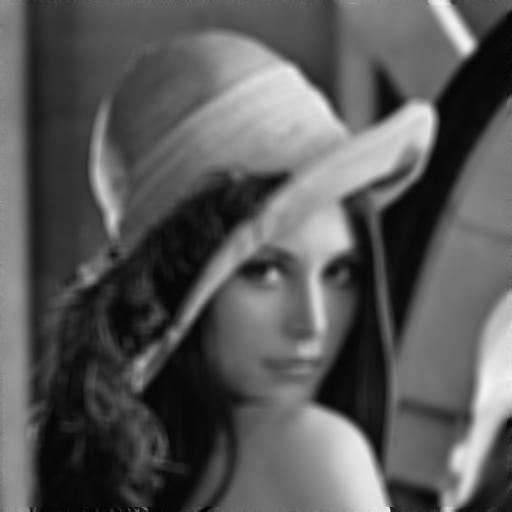
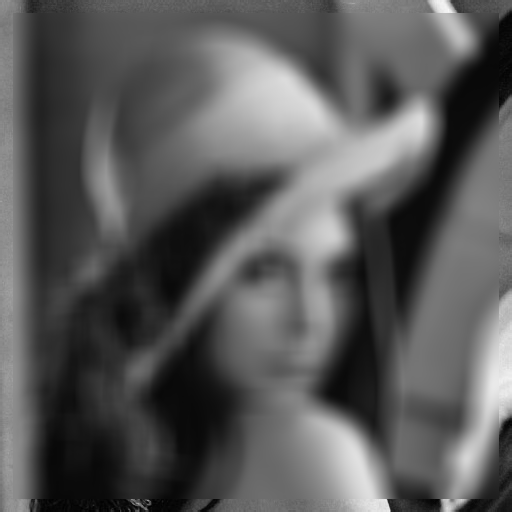
Showing Images on Screens

diff --git a/LowPass.cpp b/LowPass.cpp
@@ -9,9 +9,9 @@ using namespace cv;
 using namespace std;
 using namespace chrono;
 
-// #define RUN_SEQUENTIAL
+#define RUN_SEQUENTIAL
 // #define RUN_OPENMP
-#define RUN_MPI
+// #define RUN_MPI
 
 #ifdef RUN_SEQUENTIAL
 
@@ -27,7 +27,6 @@ int main() {
     }
 
     Mat output = image.clone();
-
     int kSize;
 
     do {
@@ -43,11 +42,12 @@ int main() {
     auto start = high_resolution_clock::now();
 
     //Looping on the image
-    for (int i = pad; i < image.rows - pad; ++i) {
-        for (int j = pad; j < image.cols - pad; ++j) {
+    for (int i = pad; i < image.rows - pad; i++) {
+        for (int j = pad; j < image.cols - pad; j++) {
             int sum = 0;
-            for (int ki = -pad; ki <= pad; ++ki) {
-                for (int kj = -pad; kj <= pad; ++kj) {
+            // Looping on the filter to always make it centered
+            for (int ki = -pad; ki <= pad; ki++) {
+                for (int kj = -pad; kj <= pad; kj++) {
                     sum += image.at<uchar>(i + ki, j + kj);
                 }
             }
@@ -64,6 +64,12 @@ int main() {
     cout << "\n" << "Blurring completed successfully!Output saved as 'output_blurred.png'" << endl;
 
     cout << "\nExecution Time: " << duration.count() << " seconds" << endl;
+
+    // Show images
+    imshow("Original Image", image);
+    imshow("Blurred Image", output);
+    waitKey(0);
+    destroyAllWindows();
 
     return 0;
 }
@@ -101,11 +107,13 @@ int main() {
 
 #pragma omp parallel for
 
-    for (int i = pad; i < image.rows - pad; ++i) {
-        for (int j = pad; j < image.cols - pad; ++j) {
+    //Looping on the image
+    for (int i = pad; i < image.rows - pad; i++) {
+        for (int j = pad; j < image.cols - pad; j++) {
             int sum = 0;
-            for (int ki = -pad; ki <= pad; ++ki) {
-                for (int kj = -pad; kj <= pad; ++kj) {
+            // Looping on the filter to always make it centered
+            for (int ki = -pad; ki <= pad; ki++) {
+                for (int kj = -pad; kj <= pad; kj++) {
                     sum += image.at<uchar>(i + ki, j + kj);
                 }
             }
@@ -121,6 +129,12 @@ int main() {
     cout << "\n" << "OpenMP Blurring done! Output saved as 'blurred_openmp.png'" << endl;
 
     cout << "\nExecution Time: " << duration.count() << " seconds" << endl;
+
+    // Show images
+    imshow("Original Image", image);
+    imshow("Blurred Image", output);
+    waitKey(0);
+    destroyAllWindows();
 
     return 0;
 }
@@ -197,11 +211,13 @@ int main(int argc, char** argv) {
         MPI_Recv(local_data.data(), local_data_size, MPI_UNSIGNED_CHAR, 0, 0, MPI_COMM_WORLD, MPI_STATUS_IGNORE);
     }
 
-    for (int i = pad; i < local_rows + pad; ++i) {
-        for (int j = pad; j < cols - pad; ++j) {
+    //Looping on the image
+    for (int i = pad; i < local_rows + pad; i++) {
+        for (int j = pad; j < cols - pad; j++) {
             int sum = 0;
-            for (int ki = -pad; ki <= pad; ++ki) {
-                for (int kj = -pad; kj <= pad; ++kj) {
+            // Looping on the filter to always make it centered
+            for (int ki = -pad; ki <= pad; ki++) {
+                for (int kj = -pad; kj <= pad; kj++) {
                     int idx = (i + ki) * cols + (j + kj);
                     sum += local_data[idx];
                 }
@@ -226,6 +242,12 @@ int main(int argc, char** argv) {
         imwrite("blurred_mpi.png", blurred);
         cout << "\nMPI Blurring done! Output saved as 'blurred_mpi.png'" << endl;
         cout << "\nExecution Time: " << duration << " seconds" << endl;
+
+        // Show images
+        imshow("Original Image", image);
+        imshow("Blurred Image", output);
+        waitKey(0);
+        destroyAllWindows();
     }
 
     MPI_Finalize();
